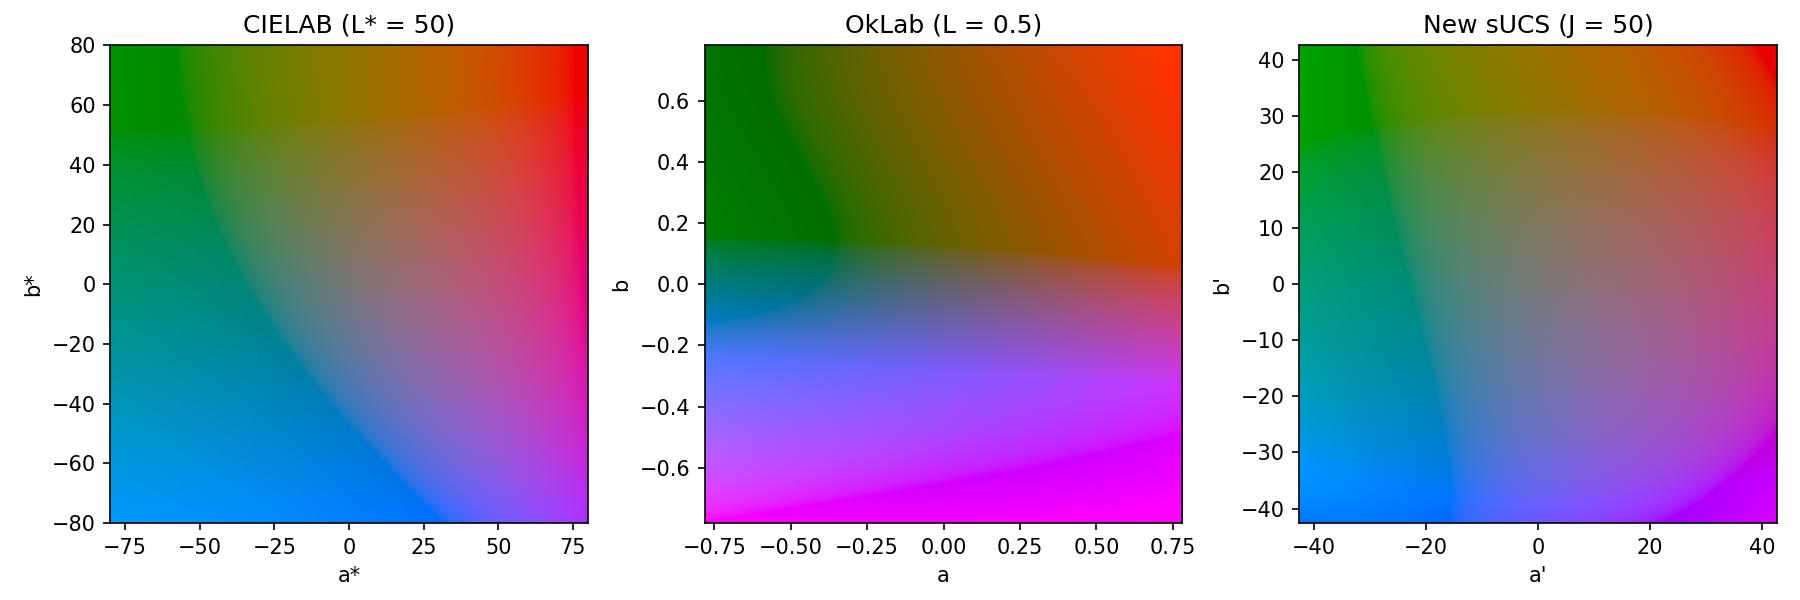
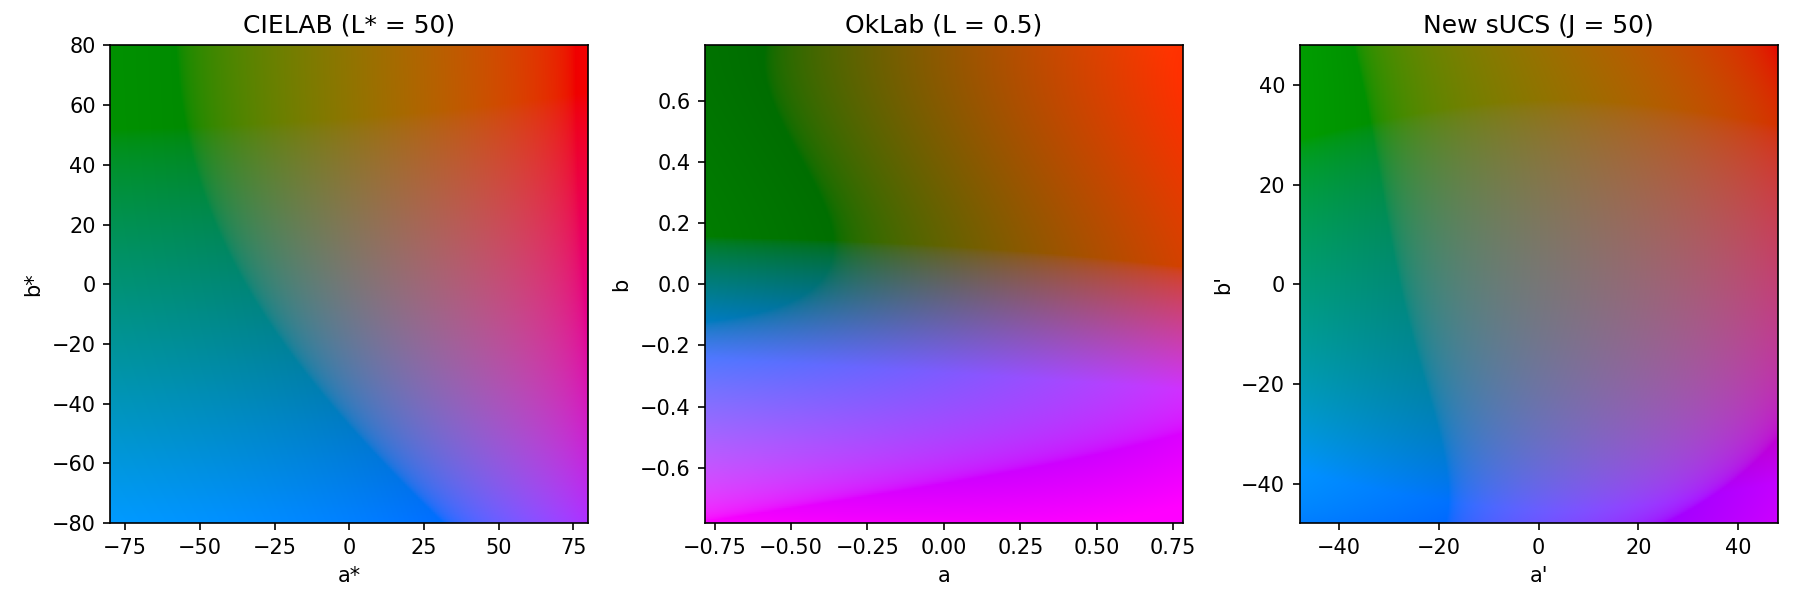
Implement dual-log New sUCS (Gamma=0.7174, Sigma=0.6464, T1=59.5784, T2=39.8886) and evaluate colormap optimization

diff --git a/Model.py b/Model.py
@@ -10,12 +10,13 @@ class NewSUCS(nn.Module):
         1. XYZ -> LMS (Normalized HPE)
         2. Non-linearity: Naka-Rushton Response (S-curve)
         3. Linear Transform: LMS -> Iab (Fixed RGYB)
-        4. Chroma Compression: Tanh (Soft Saturation)
-        
-    Trained Parameters (from optimization results):
-        Gamma: 0.7037
-        Sigma: 0.74491
-        T:     67.0247
+        4. Chroma Compression: Dual-parameter Log (Soft Saturation)
+
+    Trained Parameters (from dual-log optimization):
+        Gamma: 0.7174
+        Sigma: 0.6464
+        T1:    59.5784  (log scale)
+        T2:    39.8886  (log rate)
     """
     
     def __init__(self, device='cpu', dtype=torch.float32):
@@ -24,11 +25,12 @@ class NewSUCS(nn.Module):
         self.dtype = dtype
         
         # =================================================================
-        # 1. Trained Parameters (Hardcoded from Training Result)
+        # 1. Trained Parameters (Dual-Log Calibration)
         # =================================================================
-        self.gamma_val = 0.7037
-        self.sigma_val = 0.74491
-        self.t_val     = 67.0247
+        self.gamma_val = 0.7174
+        self.sigma_val = 0.6464
+        self.t1_val    = 59.5784  # log scale (outer)
+        self.t2_val    = 39.8886  # log rate (inner)
         
         # M_Raw from optimization result
         m_raw_np = np.array([
@@ -68,10 +70,11 @@ class NewSUCS(nn.Module):
         self.register_buffer('M_Iab', torch.tensor(m_iab_np, device=device, dtype=dtype))
         self.register_buffer('M_HPE_inv', torch.tensor(np.linalg.inv(m_hpe_norm), device=device, dtype=dtype))
         self.register_buffer('M_Iab_inv', torch.tensor(np.linalg.inv(m_iab_np), device=device, dtype=dtype))
-        
+
         self.register_buffer('Gamma', torch.tensor(self.gamma_val, device=device, dtype=dtype))
         self.register_buffer('Sigma', torch.tensor(self.sigma_val, device=device, dtype=dtype))
-        self.register_buffer('T',     torch.tensor(self.t_val, device=device, dtype=dtype))
+        self.register_buffer('T1',    torch.tensor(self.t1_val, device=device, dtype=dtype))
+        self.register_buffer('T2',    torch.tensor(self.t2_val, device=device, dtype=dtype))
         self.register_buffer('Gain',  torch.tensor(self.gain_val, device=device, dtype=dtype))
         
         # Standard sRGB to XYZ Matrix (D65) for convenience
@@ -141,20 +144,18 @@ class NewSUCS(nn.Module):
         I = iab_lin[:, 0:1]
         a = iab_lin[:, 1:2]
         b = iab_lin[:, 2:3]
-        
-        # 5. Tanh Chroma Compression (Soft Saturation)
-        # C_out = T * tanh(C_in / T)
-        C_lin = torch.sqrt(a**2 + b**2 + eps)
-        
-        C_out = self.T * torch.tanh(C_lin / self.T)
-        
+
+        # 5. Dual-parameter log chroma compression (soft saturation)
+        # C_out = T1 * log(1 + C_in / T2)
+        C_lin = torch.sqrt(a ** 2 + b ** 2 + eps)
+        C_out = self.T1 * torch.log1p(C_lin / self.T2)
+
         # Scaling factor G = C_out / C_in
         scale = C_out / C_lin
-        
-        # Reconstruct
+
         a_out = a * scale
         b_out = b * scale
-        
+
         return torch.cat([I, a_out, b_out], dim=1)
 
     # =================================================================
@@ -171,17 +172,14 @@ class NewSUCS(nn.Module):
         a_prime = sucs[:, 1:2]
         b_prime = sucs[:, 2:3]
         
-        # 1. Inverse Chroma Compression (arctanh)
-        # C_in = T * arctanh(C_out / T)
+        # 1. Inverse chroma compression (dual-parameter log)
         eps = 1e-8
-        C_out = torch.sqrt(a_prime**2 + b_prime**2 + eps)
-        
-        # Safety clip for atanh domain (-1, 1)
-        # In optimization, points might drift slightly out, so we clamp lightly
-        ratio = torch.clamp(C_out / self.T, -0.9999, 0.9999)
-        
-        C_lin = self.T * torch.atanh(ratio)
-        
+        C_out = torch.sqrt(a_prime ** 2 + b_prime ** 2 + eps)
+
+        # Forward: C_out = T1 * log(1 + C_in / T2)
+        # Inverse: C_in = T2 * (exp(C_out / T1) - 1)
+        C_lin = self.T2 * (torch.exp(C_out / self.T1) - 1.0)
+
         scale = C_lin / C_out
         a_lin = a_prime * scale
         b_lin = b_prime * scale

diff --git a/compare_chroma_compression.py b/compare_chroma_compression.py
@@ -20,11 +20,12 @@ def original_sucs_chroma(C: np.ndarray) -> np.ndarray:
 
 def new_sucs_chroma(C: np.ndarray, T: float) -> np.ndarray:
     """
-    New sUCS chroma compression used in Model.xyz_to_sucs:
+    New sUCS chroma compression used in Model.xyz_to_sucs (dual-log):
 
-        C_out = T * tanh(C_in / T)
+        C_out = T1 * log(1 + C_in / T2)
     """
-    return T * np.tanh(C / T)
+    T1, T2 = T
+    return T1 * np.log1p(C / T2)
 
 
 def main(output_path: str = "chroma_compression_sucs_vs_new.png"):
@@ -33,20 +34,21 @@ def main(output_path: str = "chroma_compression_sucs_vs_new.png"):
     New sUCS tanh-based chroma compression over a range of C values.
     """
     model = NewSUCS(device="cpu")
-    T = float(model.T.cpu().item())
+    T1 = float(model.T1.cpu().item())
+    T2 = float(model.T2.cpu().item())
 
     # Chroma range: from 0 to a value that clearly shows saturation behaviour.
     C = np.linspace(0.0, 200.0, 1001, dtype=np.float64)
 
     y_orig = original_sucs_chroma(C)
-    y_new = new_sucs_chroma(C, T)
+    y_new = new_sucs_chroma(C, (T1, T2))
 
     fig, axes = plt.subplots(1, 2, figsize=(10, 4))
 
     # Full range comparison.
     ax = axes[0]
     ax.plot(C, y_orig, label="Original sUCS: log(1 + 0.0447*C)/0.0252", color="blue")
-    ax.plot(C, y_new, label=f"New sUCS: T*tanh(C/T), T={T:.2f}", color="red")
+    ax.plot(C, y_new, label=f"New sUCS: T1*log(1 + C/T2), T1={T1:.2f}, T2={T2:.2f}", color="red")
     ax.set_xlabel("Input chroma C")
     ax.set_ylabel("Compressed chroma")
     ax.set_title("Chroma compression (full range)")
@@ -57,7 +59,7 @@ def main(output_path: str = "chroma_compression_sucs_vs_new.png"):
     ax = axes[1]
     mask = C <= 40.0
     ax.plot(C[mask], y_orig[mask], label="Original", color="blue")
-    ax.plot(C[mask], y_new[mask], label="New (tanh)", color="red")
+    ax.plot(C[mask], y_new[mask], label="New (dual-log)", color="red")
     ax.set_xlabel("Input chroma C (zoomed)")
     ax.set_ylabel("Compressed chroma")
     ax.set_title("Chroma compression (near zero)")
@@ -71,4 +73,3 @@ def main(output_path: str = "chroma_compression_sucs_vs_new.png"):
 
 if __name__ == "__main__":
     main()
-
